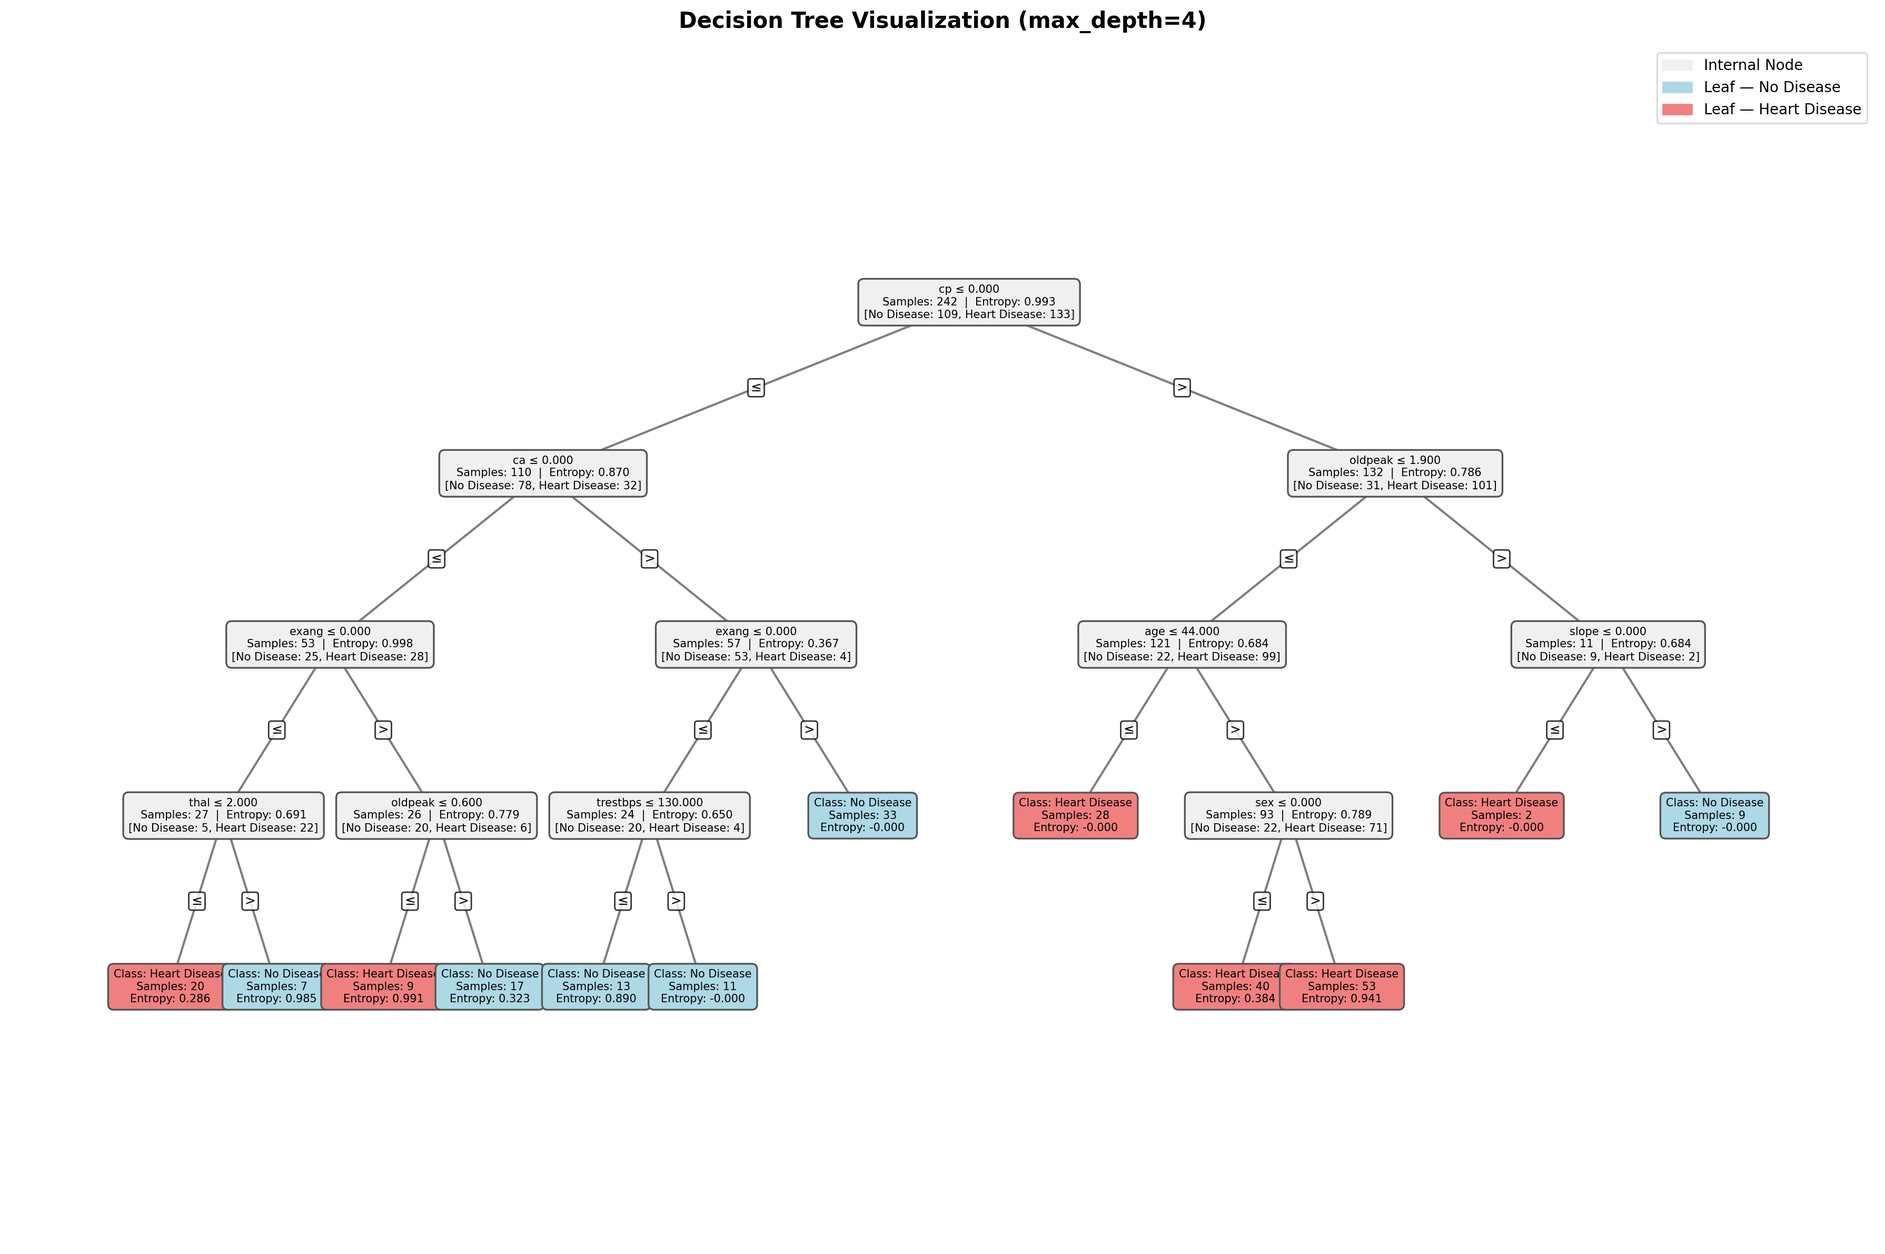
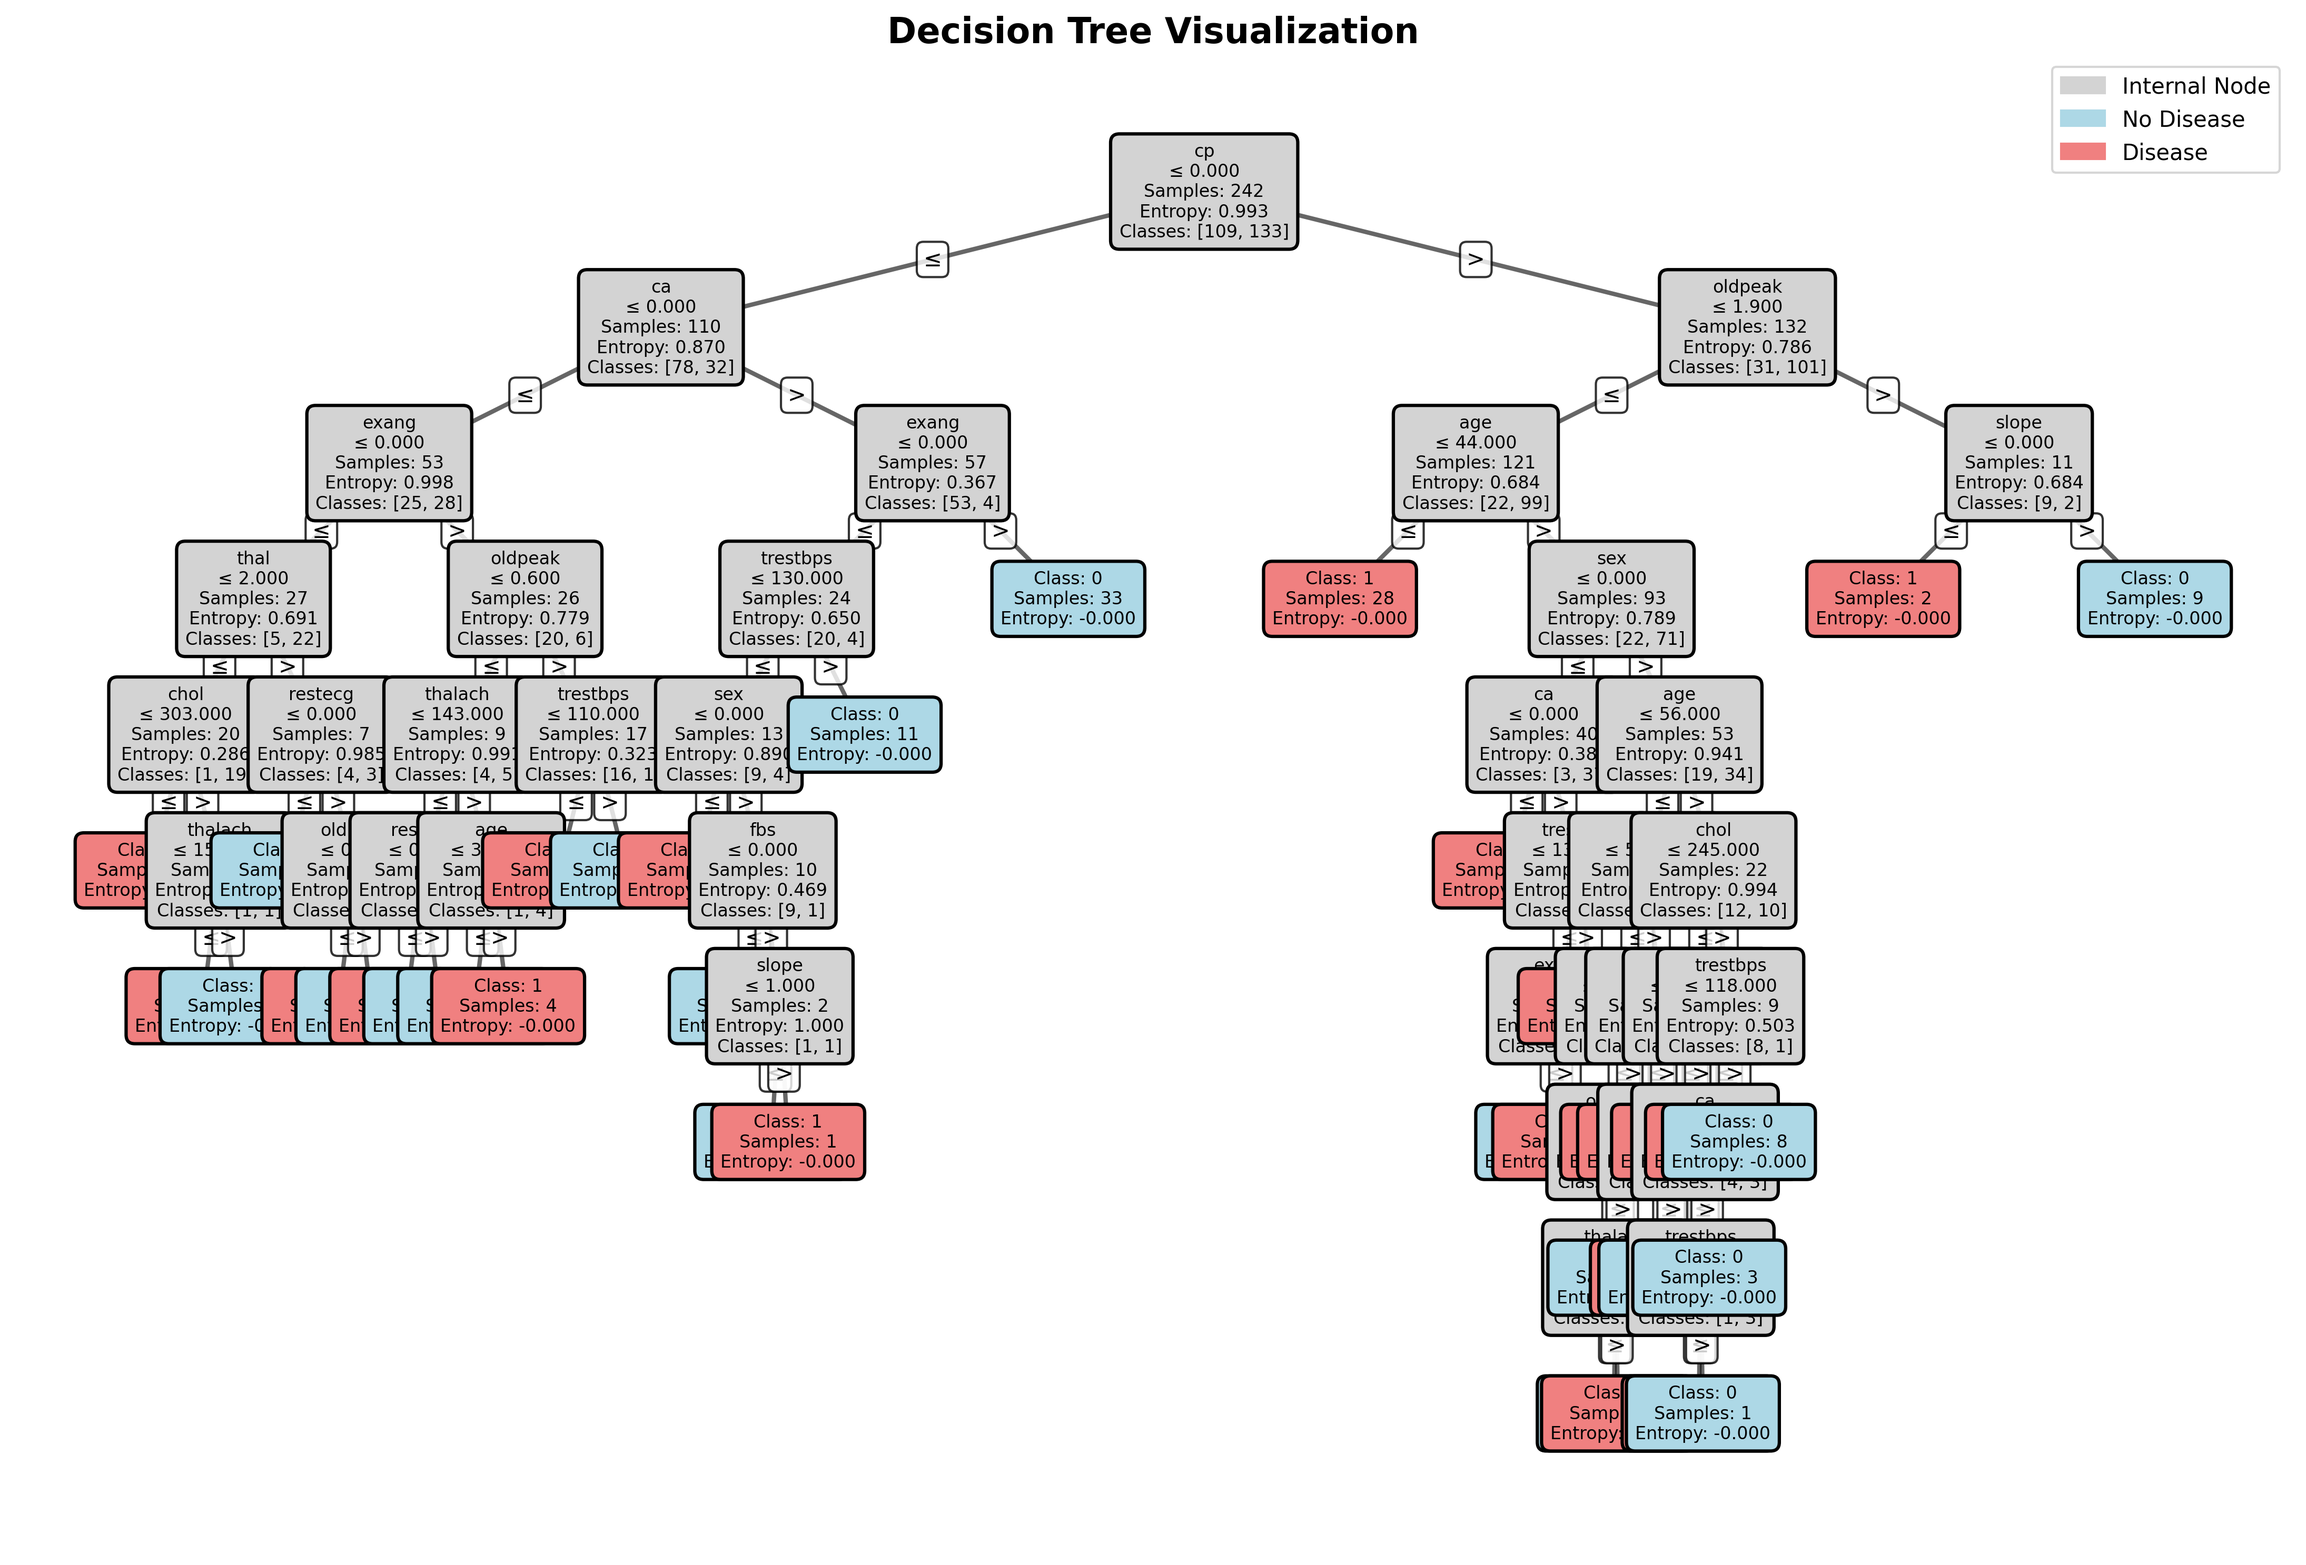
dd decision tree visualization diagram to README

diff --git a/README.md b/README.md
@@ -78,13 +78,16 @@ heart-disease-prediction/
 
 ## Decision Tree Visualization
 
-The diagram below shows the trained Decision Tree (depth=4) on the Heart Disease dataset.
-Each internal node shows the **split feature**, **threshold**, **sample count**, and **entropy**.
-Leaf nodes are colour-coded: 🔵 **No Disease** / 🔴 **Heart Disease**.
+The diagram below shows the full trained Decision Tree (depth=10) on the Heart Disease dataset.
+Each internal node displays the **split feature**, **threshold**, **entropy**, **sample count**, and **class distribution**.
+Leaf nodes are colour-coded — 🔵 **No Disease** (light blue) / 🔴 **Heart Disease** (light coral).
+
+The root split on `cp` (chest pain type) reveals it as the strongest single predictor,
+followed by `ca` (major vessels), `oldpeak`, `exang`, and `age` at deeper levels.
 
 ![Decision Tree Visualization](assets/decision_tree.png)
 
-> Generated with: `python visualize.py --depth 4 --out assets/decision_tree.png`
+> To regenerate: `python visualize.py --depth 10 --out assets/decision_tree.png`
 
 ---
 
